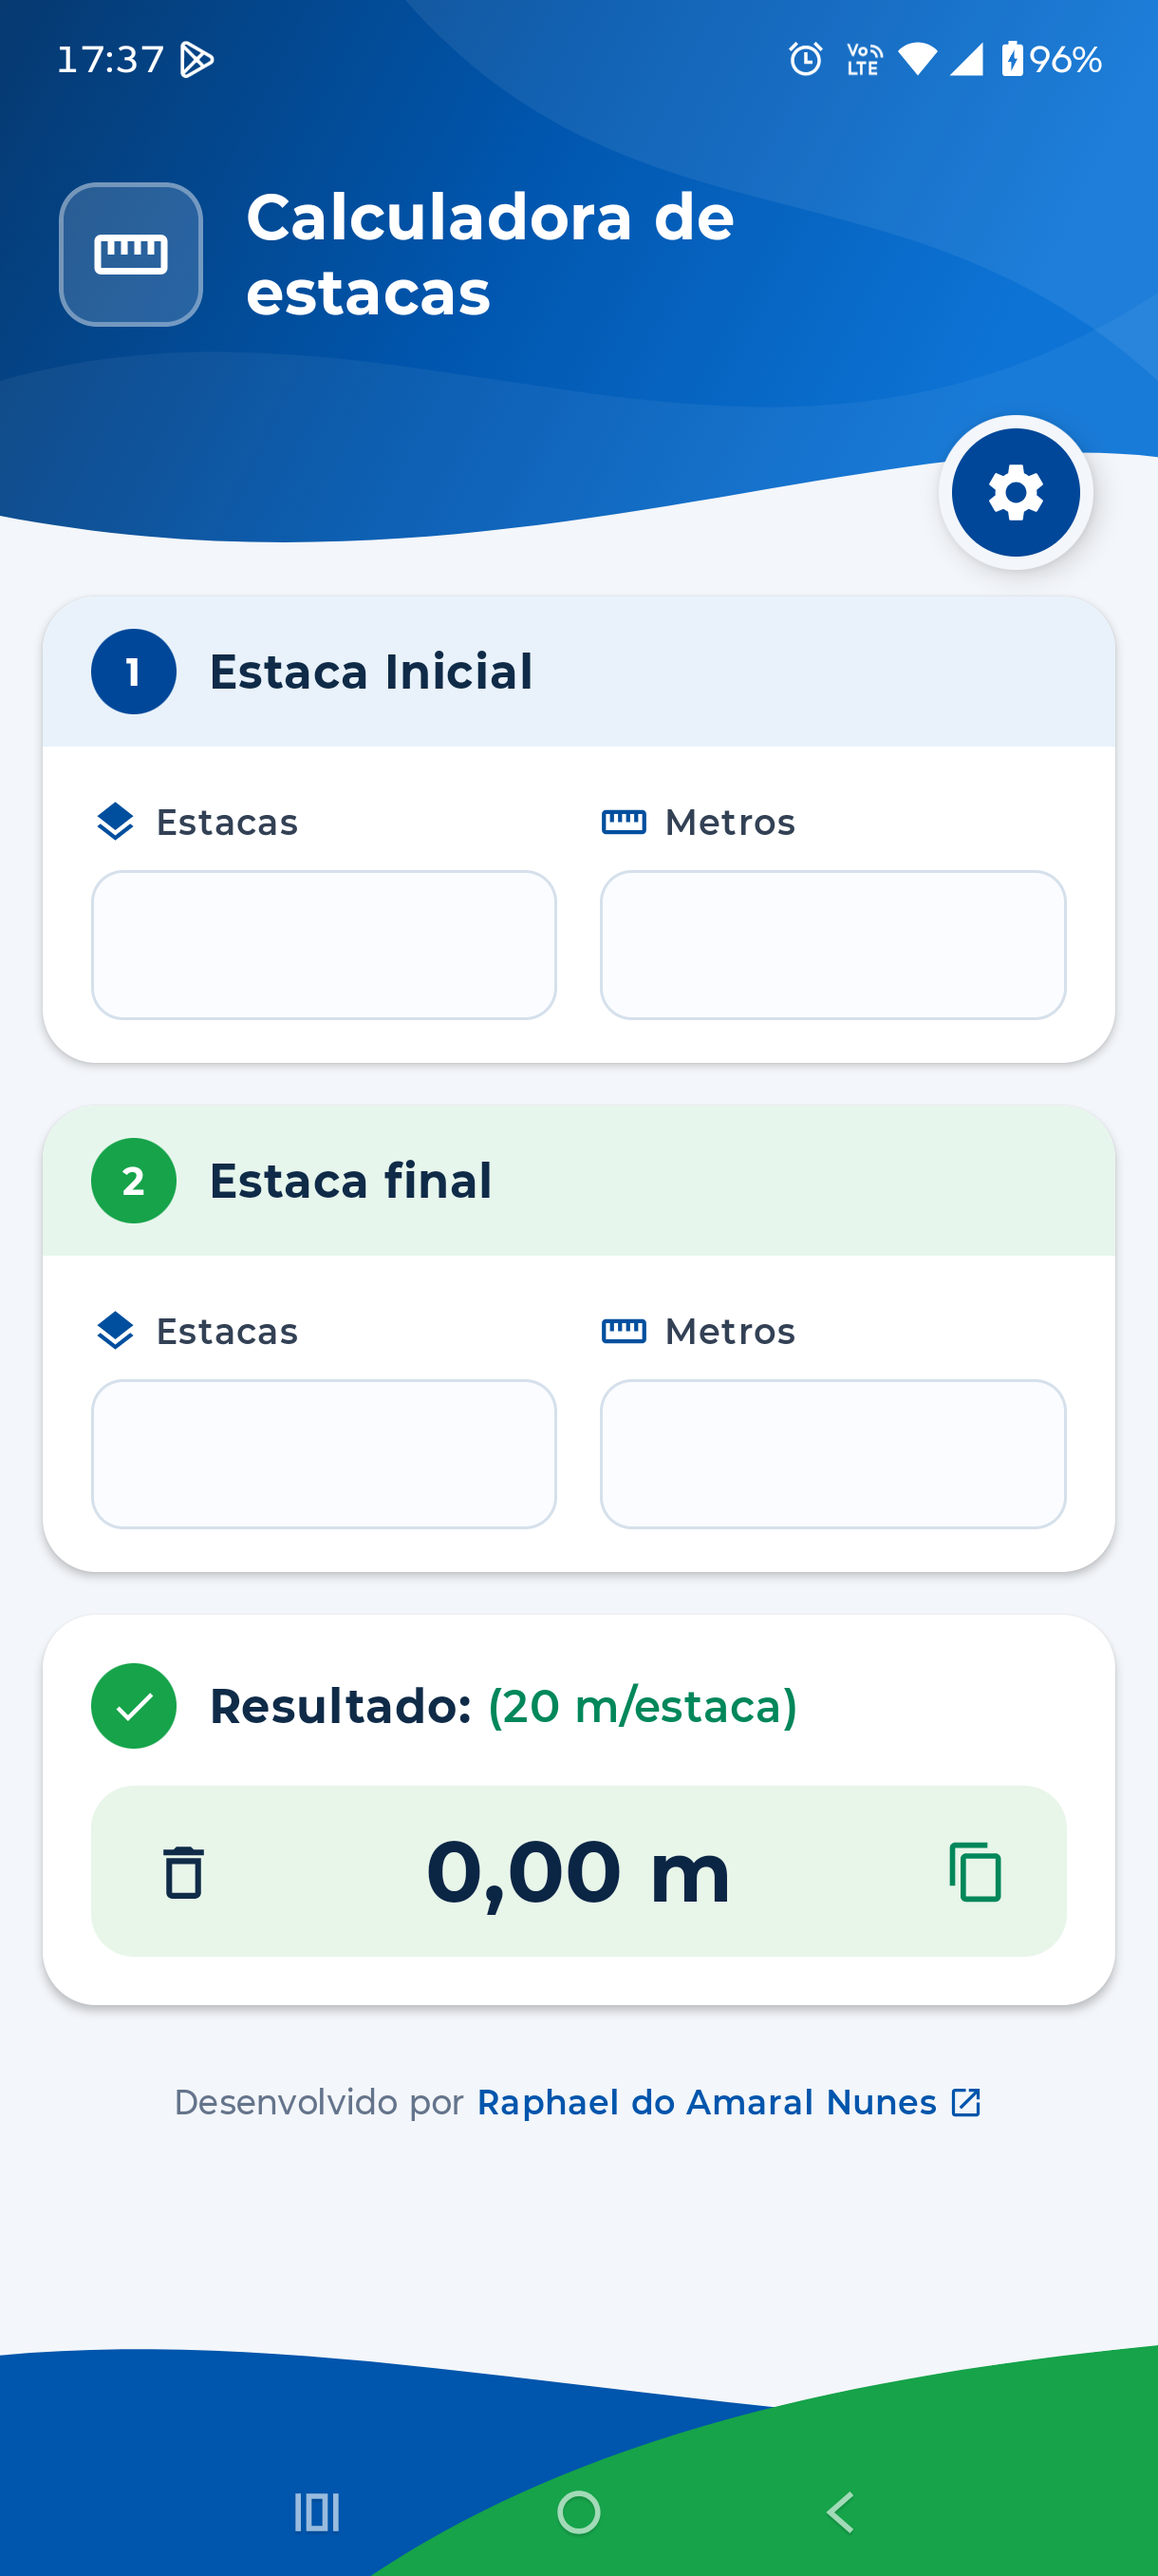
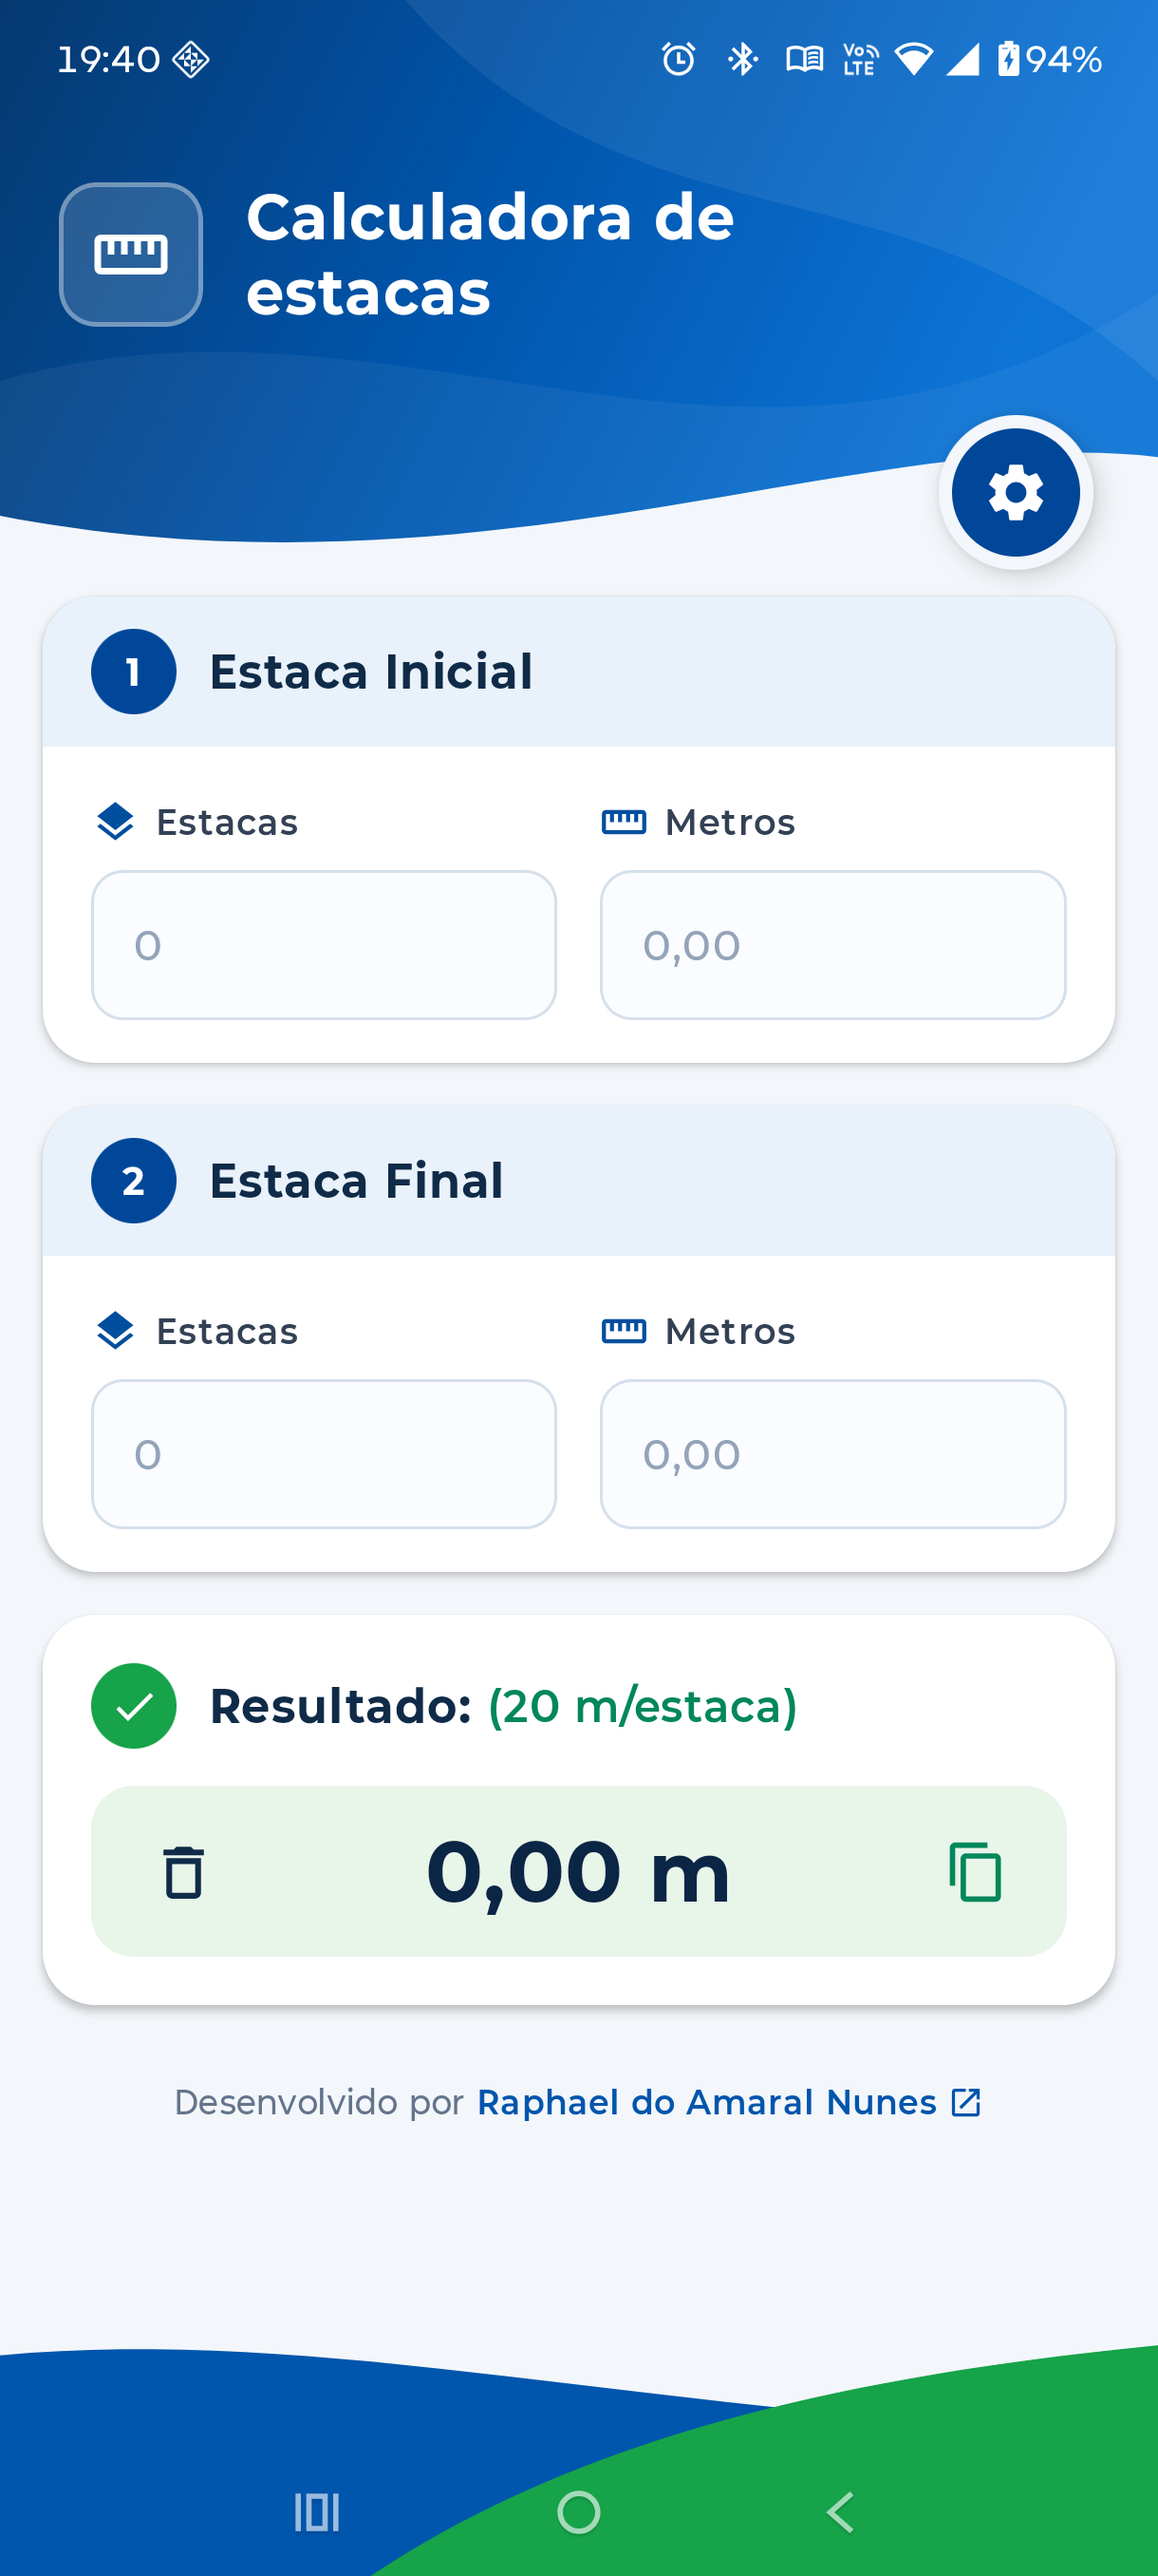
feat(ui): adicionar placeholders nos campos de estacas e metros

diff --git a/app/src/main/java/com/raphael/calculadoraestacas/ui/components/SecaoEntradaEstaca.kt b/app/src/main/java/com/raphael/calculadoraestacas/ui/components/SecaoEntradaEstaca.kt
@@ -124,6 +124,7 @@ fun SecaoEntradaEstaca(
                         value = valorEstacas,
                         onValueChange = onEstacasChange,
                         modifier = Modifier.fillMaxWidth(),
+                        placeholder = { Text(text = "0", color = Color(0xFF94A3B8)) },
                         singleLine = true,
                         shape = RoundedCornerShape(12.dp),
                         keyboardOptions = KeyboardOptions(keyboardType = KeyboardType.Number),
@@ -163,6 +164,7 @@ fun SecaoEntradaEstaca(
                         value = valorMetros,
                         onValueChange = onMetrosChange,
                         modifier = Modifier.fillMaxWidth(),
+                        placeholder = { Text(text = "0,00", color = Color(0xFF94A3B8)) },
                         singleLine = true,
                         shape = RoundedCornerShape(12.dp),
                         keyboardOptions = KeyboardOptions(keyboardType = KeyboardType.Decimal),
